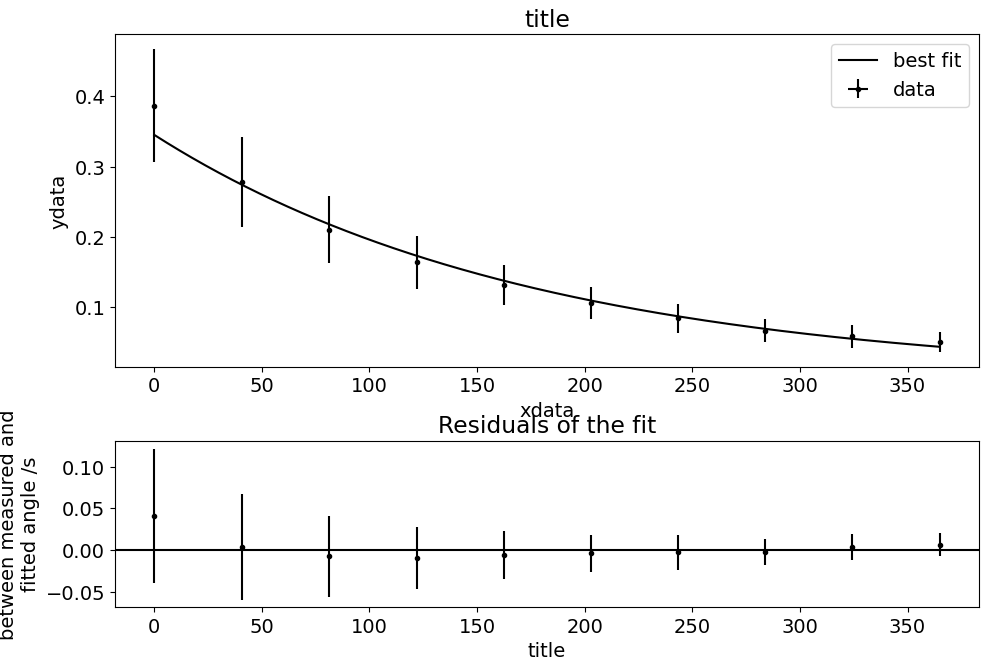
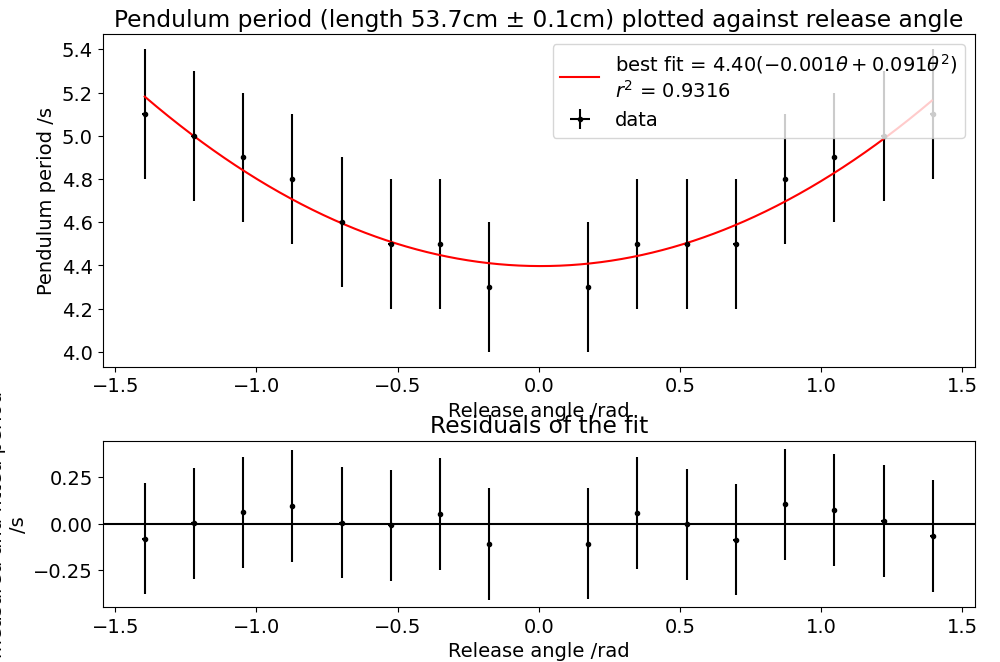
plot r^2 and equation in legend

diff --git a/report/lab.tex b/report/lab.tex
@@ -43,19 +43,22 @@ Note that Equation \ref{eq:l-over-g} does not depend on $\theta$ because it repr
 which cannot be solved in terms of elementary functions [ref required]. However, if small angle approximation is assumed, that is, $\sin\theta \approx \theta$, the differential equation can be rewritten and solved to yield $\theta(t)$ in terms of a sine wave with period of Equation \ref{eq:l-over-g}. For $\theta \lesssim 20^{\circ}$, small angle approximation (and therefore simple harmonic motion) holds \cite{the-simple-pendulum}. Additionally, the the mass of the pendulum weight does not show up in any of the equations, implying that pendulum period does not depend on mass for the previous models.
 
 Another way to model a pendulum realistically is to incorporate dampening from air resistance and friction within the string fibres, given by the following equation:
-\begin{equation} \label{eq:eq3}
+\begin{equation} \label{eq:damped-harmonic-oscillator}
     \theta(t) = \theta_0 e^{-{t/\tau}} \cos\left(2\pi\frac{t}{T} + \phi_0\right)
 \end{equation}
 where $\theta_0$ is the initial release angle in radians, $T$ is the pendulum's period, $\phi_0$ is the angular phase shift, and $\tau$ is the decay constant that governs all factors that results in the damped harmonic motion. However, it can be inferred from this model that $T$ is constant, implying the presence of small angle approximation.
 
-In order to quantify the dampening effect of a pendulum, its Q factor, which measures how damped the oscillator is, may be used. The Q factor for a damped oscillator is defined as follows. \cite{pnp-physics}:
+Additionally, the amplitude-time graph of the pendulum can be modelled by removing the cosine term from Equation \ref{eq:damped-harmonic-oscillator}:
+\begin{equation} \label{eq:amplitude-function}
+    A(t) = \theta_0 e^{-{t/\tau}}
+\end{equation}
+
+In order to quantify the dampening effect of a pendulum, its Q factor may be used. The Q factor measures how damped an oscillator is and is defined as follows. \cite{pnp-physics}:
 \begin{equation} \label{eq:eq4}
     Q = \pi\frac{\tau}{T}
 \end{equation}
 
-The Q factor also represents the the number of oscillations for the pendulum's amplitude to decay to $e^{-\pi}$, or $\approx 4\%$ of its original amplitude. However, it suffices to calculate $Q/n$ where the amplitude decays to $e^{-\pi/n}i\%$ of its original.
-
-Qualitatively, when the Q factor is large, the pendulum comes to rest slower. When the Q factor is large, the pendulum comes to rest slower.
+The Q factor also represents the the number of oscillations for the pendulum's amplitude to decay to $e^{-\pi}$, or $\approx 4\%$ of its original amplitude. However, it suffices to count $Q/n$ swings where the amplitude decays to $e^{-\pi/n}\,\%$ of its original. Qualitatively, when the Q factor is large, the pendulum comes to rest slower. When the Q factor is large, the pendulum comes to rest quicker.
 
 \section{Period and Release Angle}
 
@@ -122,7 +125,7 @@ A protractor was not included in the experimental setup this time because Tracke
 The uncertainty for time was taken to be $1/f$ where $f$ represents the frame rate of the video imported into Tracker, namely $120\,\text{fps}$. The uncertainty for angle was calculated this time for each individual maximum by taking half the range of the sweeping area that the string made in Tracker due to video blur.
 
 \subsection{Analysis}
-The exponential fit used to create a curve of best fit for the data was taken from Equation \ref{eq:eq3}, removing the periodic motion portion. The equation for the fit is equal to:
+The exponential fit used to create a curve of best fit for the data was taken from Equation \ref{eq:damped-harmonic-oscillator}, removing the periodic motion portion. The equation for the fit is equal to:
 \begin{equation}
     1.21e^{-{t}/68}
 \end{equation}

diff --git a/plotting/fit_power_series.py b/plotting/fit_power_series.py
@@ -37,6 +37,7 @@ import scipy.optimize as optimize
 import numpy as np
 import matplotlib.pyplot as plt
 from pylab import loadtxt
+from sklearn.metrics import r2_score
 
 def damped_sinusoid(t, a, tau, T, phi):
     return a*np.exp(-t/tau)*np.cos(2*np.pi*t/T+phi)
@@ -70,6 +71,7 @@ def main():
 
     plt.rcParams.update({'font.size': 14})
     plt.rcParams['figure.figsize'] = 10, 9
+    # plt.rcParams['text.usetex'] = True
     # Change the fontsize of the graphs to make it easier to read.
     # Also change the picture size, useful for the save-to-file option.
 
@@ -134,9 +136,15 @@ def main():
     # Plot the data with error bars, fmt makes it data points not a line, label is
     # a string which will be printed in the legend, you should edit this string.
 
-    ax1.plot(xs, curve, label="best fit", color="black")
+    # print(ydata)
+    rsq = r2_score(ydata, [powerseries(i, T0, B, C) for i in xdata])
+
+    ax1.plot(xs, curve, label=f"best fit = $ 4.40(-0.001\\theta + 0.091\\theta^2)$\n$r^2$ = {rsq:.4f}", color="red")
     # Plot the best fit curve on top of the data points as a line.
     # NOTE: you may want to change the value of label to something better!!
+
+
+    # return T0 * (1 + B*rad + C*rad**2)
 
     ax1.legend(loc='upper right')
     # Prints a box using what's in the "label" strings in the previous two lines.
@@ -144,7 +152,7 @@ def main():
 
     ax1.set_xlabel("Release angle /rad")
     ax1.set_ylabel("Pendulum period /s")
-    ax1.set_title("Pendulum period (length 53.7 cm ± 0.1 cm) plotted against release angle")
+    ax1.set_title("Pendulum period (length 53.7cm ± 0.1cm) plotted against release angle")
     # Here is where you change how your graph is labelled.
 
     #ax1.set_xscale('log')
